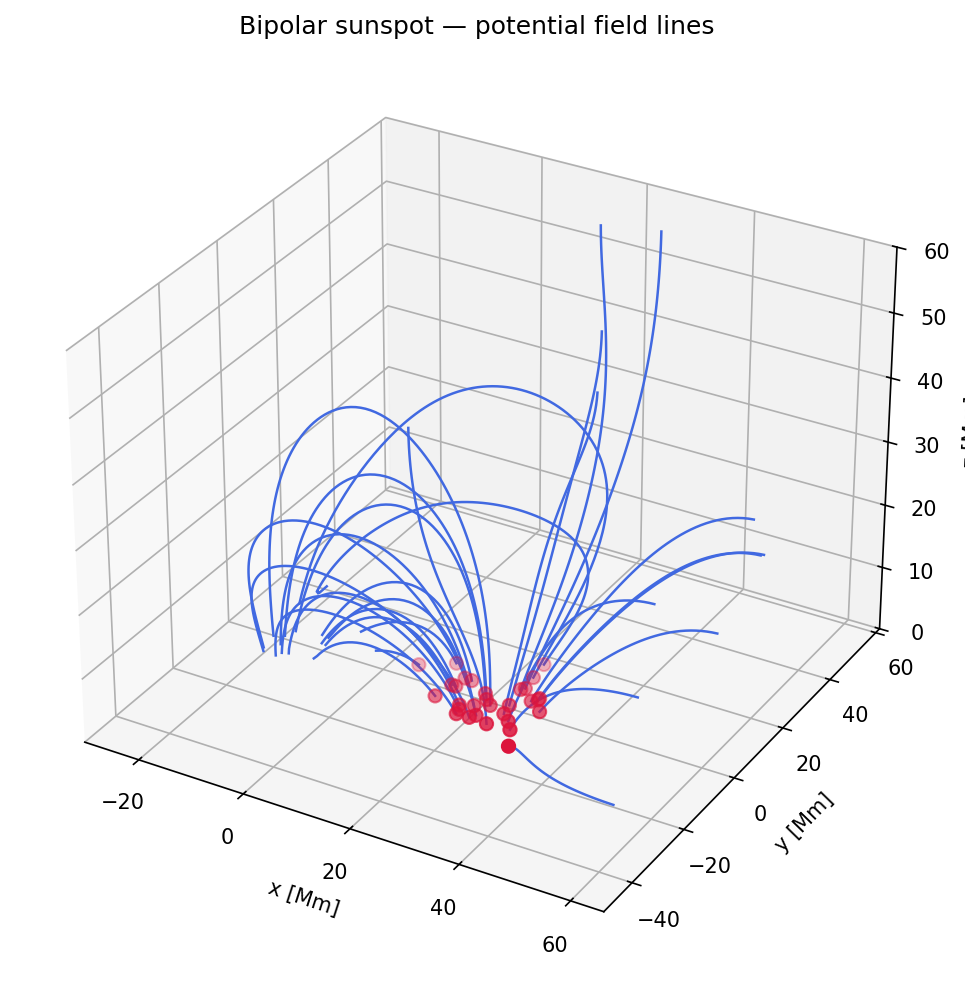
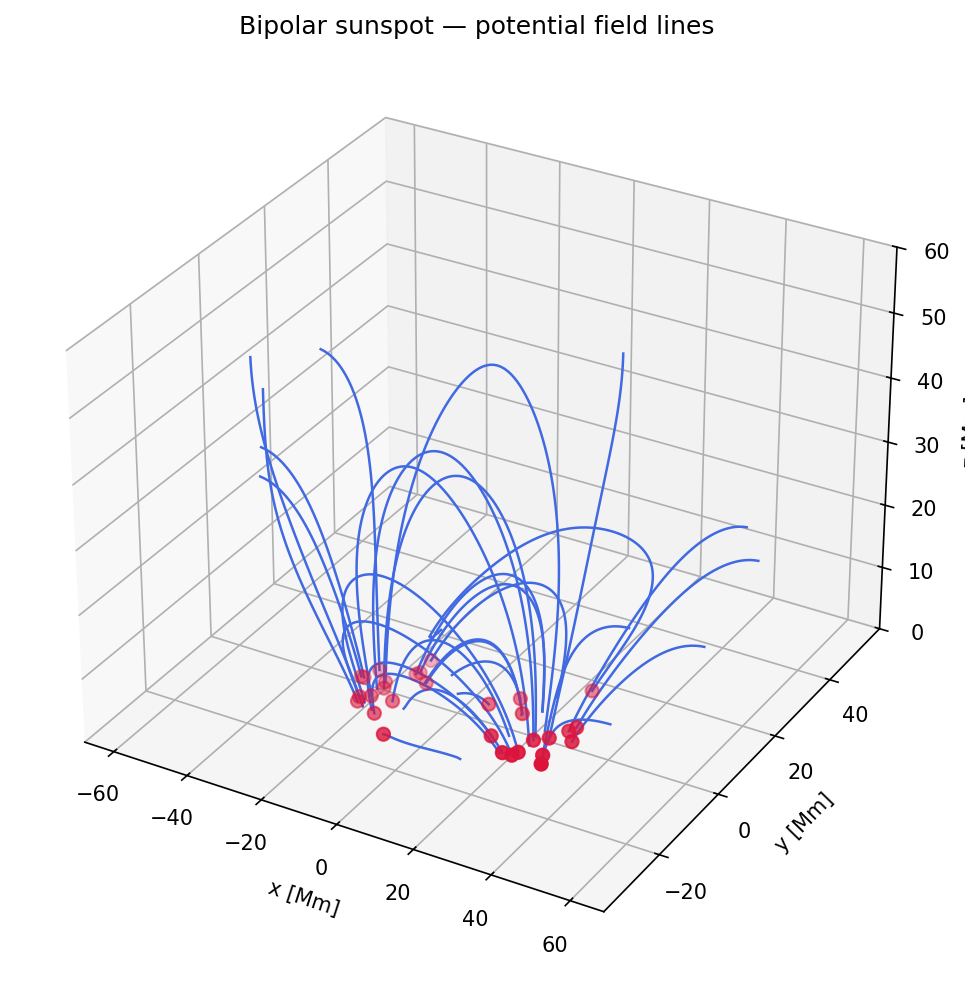
fix: add seed points on negative polarity spot as well
Split seed_count evenly between positive (+spot_distance) and
negative (-spot_distance) spots.

diff --git a/src/wind3d_field_lines/demo_bipolar.py b/src/wind3d_field_lines/demo_bipolar.py
@@ -203,11 +203,19 @@ def run_demo(config: BipolarDemoConfig) -> None:
     dy_profile = np.full(config.nz, det, dtype=np.float64)
     dz_profile = np.full(config.nz, dz_step, dtype=np.float64)
 
-    # --- Seed points scattered over the positive polarity spot at z = 0 ---
-    # Use a 2-D Gaussian distribution centred on the positive spot (x = +spot_distance)
+    # --- Seed points scattered over both polarity spots at z = 0 ---
+    # Split seed_count evenly between positive (x = +spot_distance) and
+    # negative (x = -spot_distance) spots, each drawn from a 2-D Gaussian
     # with standard deviation equal to the spot width sigma.
     rng = np.random.default_rng(config.seed_rng_seed)
-    seed_x = rng.normal(config.spot_distance, config.sigma, config.seed_count)
+    n_pos = config.seed_count // 2
+    n_neg = config.seed_count - n_pos
+    seed_x = np.concatenate(
+        [
+            rng.normal(config.spot_distance, config.sigma, n_pos),
+            rng.normal(-config.spot_distance, config.sigma, n_neg),
+        ]
+    )
     seed_y = rng.normal(0.0, config.sigma, config.seed_count)
     seed_z = np.zeros(config.seed_count, dtype=np.float64)
 
